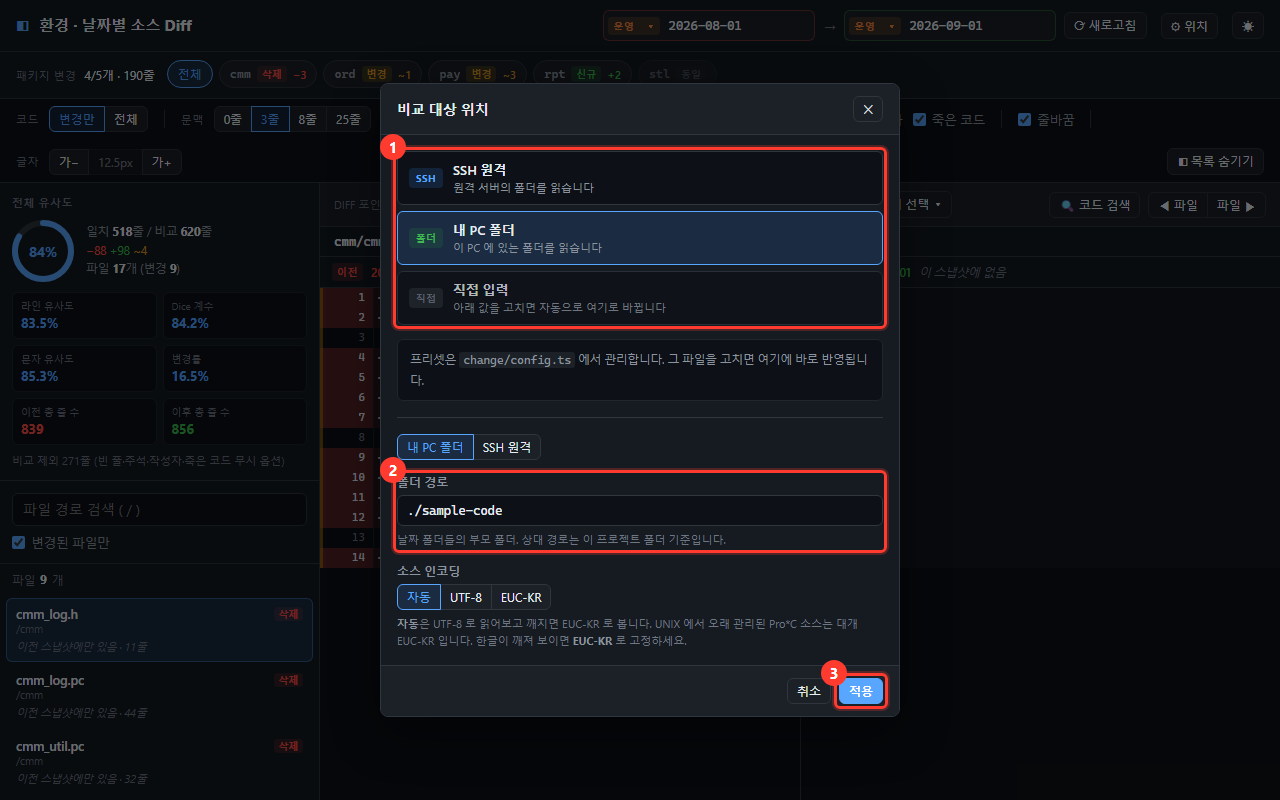
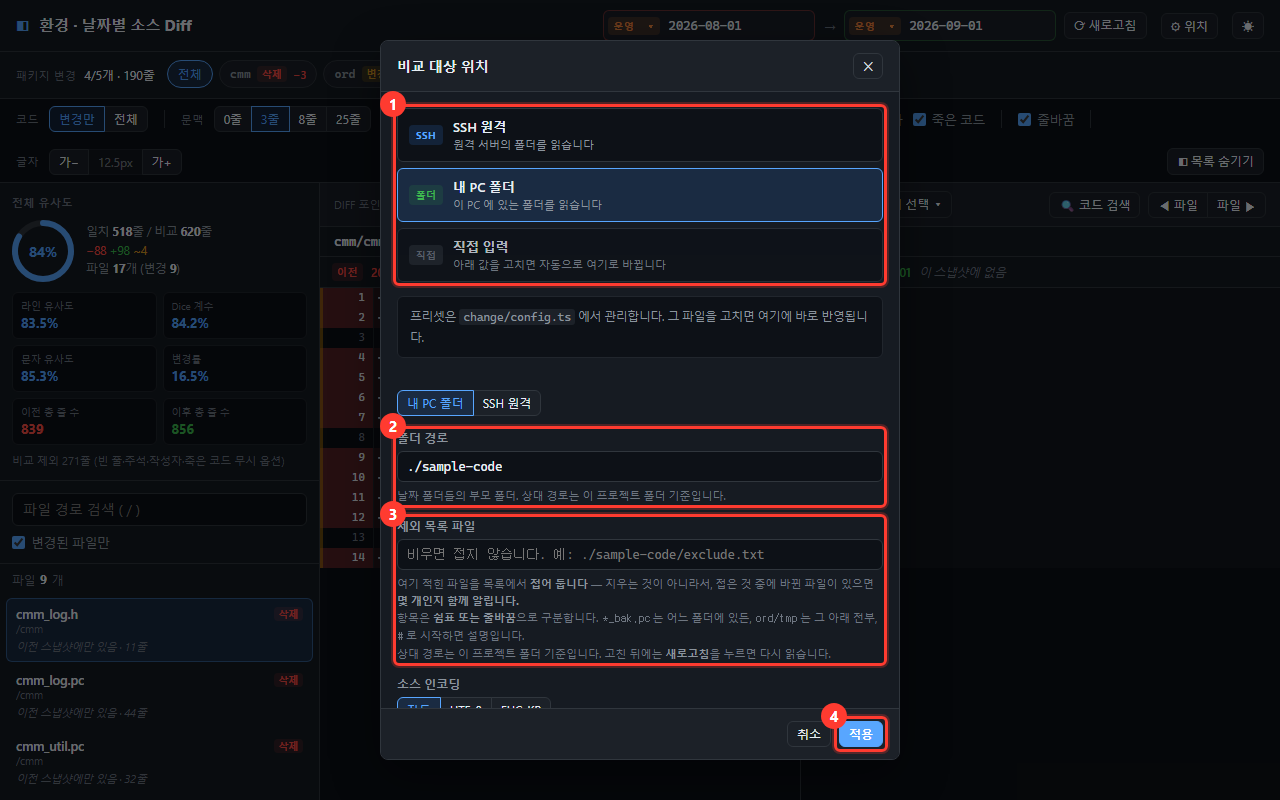
docs: 제외 목록을 문서에 반영하고 그림에 한 장을 더한다
설명서에 "4-1. 늘 안 봐도 되는 파일 접어 두기" 를 넣고, 접기가 지우기가 아니라는
것과 `· 변경 N` 을 보면 한 번은 열어 보라는 것을 그림과 함께 적었다.

"파일이 목록에 안 보입니다" 항목을 표로 갈랐다. `대상 밖` 과 `제외` 는 원인도
고칠 곳도 다른데 그동안 한 문장이었다. 규칙을 적었는데 안 먹을 때와 규칙 파일을
못 읽었을 때도 따로 적었다.

API 문서에 `excludeFile` 파라미터와 `exclude` 응답 블록, 규칙 표기법을 넣었다.
`skipped` 와 `exclude` 가 어떻게 다른지, `excludeFile` 이 왜 캐시 키에 안 들어가는지도
함께 적어 둔다.

캡처에 `07-exclude` 장면을 더했다. 접힌 파일은 경로순으로 목록 아래쪽에 있어
그냥 찍으면 화면 밖이라, 펼친 뒤 그 항목을 화면 가운데로 옮겨 찍는다. 프리셋을
고른 상태로 두면 저장값이 아니라 프리셋의 현재 값이 쓰이므로, 규칙 파일을 넣는
장면에서는 프리셋을 풀어 둔다.

설정 창에 칸이 하나 늘어 그림 6장도 다시 뽑았다.

Changed region(s): [[0.2812, 0.0312, 0.7188, 0.9688]]

diff --git a/scripts/shot.html b/scripts/shot.html
@@ -45,10 +45,15 @@
       const params = new URLSearchParams(location.search)
       const scene = params.get('scene') ?? 'overview'
 
-      const seed = (env = { left: 'prod', right: 'prod' }) => {
+      const seed = (env = { left: 'prod', right: 'prod' }, excludeFile = '') => {
+        // 프리셋을 고른 상태로 두면 **저장값이 아니라 프리셋의 현재 값**이 쓰인다
+        // (features/settings/sourceSettings.ts). 제외 목록을 넣을 때는 풀어 둬야 먹는다.
         localStorage.setItem(
           'cd-source',
-          JSON.stringify({ presetId: 'local', source: { mode: 'local', root: './sample-code', encoding: 'auto' } })
+          JSON.stringify({
+            presetId: excludeFile ? null : 'local',
+            source: { mode: 'local', root: './sample-code', encoding: 'auto', excludeFile },
+          })
         )
         localStorage.setItem('cd-env', JSON.stringify(env))
         localStorage.setItem('cd-theme', 'dark')
@@ -122,7 +127,8 @@
           await sleep(400)
           mark(doc, '.settings .preset-list', 1, 4)
           mark(doc, '.settings-body .field', 2, 4)
-          mark(doc, byText(doc, '.settings button', '적용'), 3, 5)
+          mark(doc, byText(doc, '.settings-body .field', '제외 목록 파일'), 3, 4)
+          mark(doc, byText(doc, '.settings button', '적용'), 4, 5)
         },
 
         /* 3. 좌우 환경·날짜 고르기 */
@@ -150,6 +156,18 @@
           mark(doc, '.filelist .file-item', 3, 4)
         },
 
+        /* 7. 제외 목록으로 접어 둔 파일 — 펼친 상태로 찍는다 */
+        async exclude(doc) {
+          const toggle = await until(() => doc.querySelector('.excl-toggle'))
+          toggle?.click()
+          const folded = await until(() => doc.querySelector('.file-item.excluded'))
+          // 접힌 파일은 경로순으로 목록 아래쪽에 있어 그냥 찍으면 화면 밖이다
+          folded?.scrollIntoView({ block: 'center' })
+          await sleep(400)
+          mark(doc, '.excl-toggle', 1, 5)
+          mark(doc, folded, 2, 4)
+        },
+
         /* 6. 코드 비교 화면 */
         async diff(doc) {
           mark(doc, '.optionbar', 1, 3)
@@ -162,7 +180,12 @@
         crossenv: { left: 'prod', right: 'test' },
       }
 
-      seed(ENV[scene])
+      /** 제외 기능은 규칙 파일을 가리켜야 보인다 — 저장소에 함께 든 견본을 쓴다 */
+      const EXCLUDE = {
+        exclude: './sample-code/exclude.txt',
+      }
+
+      seed(ENV[scene], EXCLUDE[scene] ?? '')
 
       const frame = document.getElementById('app')
       frame.src = '/'

diff --git a/docs/API.md b/docs/API.md
@@ -21,12 +21,20 @@
 | `port` | Number | N | 비우거나 숫자가 아니면 ssh 기본값(22) |
 | `identityFile` | String | N | 개인키 경로. 비우면 ssh 기본 키 |
 | `encoding` | String | N | `auto`(기본) · `utf-8` · `euc-kr`. 모르는 값은 `auto` 로 본다 |
+| `excludeFile` | String | N | 목록에서 접어 둘 파일들이 적힌 텍스트 파일 경로. 비우면 접지 않는다 |
 
 **자격증명 파라미터는 없다.** SSH 인증은 이 API 가 아니라 **ssh 가 알아서 한다** —
 개인키 · ssh-agent · `~/.ssh/config`. 비밀번호는 받지도, 보관하지도 않는다.
 
 `encoding` 은 로컬·SSH 모두에 적용된다. `auto` 는 UTF-8 로 읽어보고 유효하지 않으면 EUC-KR 로 본다
 (올바른 UTF-8 파일은 항상 UTF-8 로 읽히므로 멀쩡한 파일이 망가지지 않는다).
+
+`excludeFile` 은 **비교 대상과 같은 자리**에서 읽는다 (local 이면 이 PC, ssh 면 원격 서버).
+`root` 와 무관하게 푼다 — local 의 상대 경로는 프로젝트 폴더 기준, ssh 는 원격 경로 그대로다
+(`~/release/exclude.txt` 처럼 홈 기준도 된다). `rightRoot` 로 좌우 위치가 갈려도 **규칙은 하나**다.
+
+이 파라미터는 **2번 비교 API 에서만** 뜻이 있다 (1·3번은 받아도 무시한다).
+읽어 들인 규칙은 캐시되며 `?refresh=1`(1번 API) 로 다시 읽는다.
 
 ```
 GET /api/v1/snapshots
@@ -216,7 +224,8 @@ GET /api/v1/comparisons?mode=local&root=.%2Fsample-code%2Fprod
       "stats": { "aLines": 43, "bLines": 63, "same": 41, "modified": 2, "added": 20, "removed": 0, "changedLines": 22, "lineSimilarity": 0.6507, "diceSimilarity": 0.7735, "charSimilarity": 0.7423, "changeRatio": 0.3492, "comparedA": 43, "comparedB": 63, "ignored": 0, "charsA": 874, "charsB": 1430, "commonChars": 1710 }
     }
   ],
-  "skipped": 0
+  "skipped": 0,
+  "exclude": { "file": "", "rules": 0, "files": 0, "changed": 0, "error": null }
 }
 ```
 
@@ -230,9 +239,39 @@ GET /api/v1/comparisons?mode=local&root=.%2Fsample-code%2Fprod
 | `files[].status` | String | `added` 이후에만 있음 / `removed` 이전에만 있음 / `modified` 양쪽에 있고 다름 / `same` 양쪽이 같음 |
 | `files[].leftSize` `rightSize` | Number \| null | 그쪽에 파일이 없으면 `null` |
 | `files[].stats` | Object | **항상 채워진다.** 한쪽에만 있는 파일은 빈 파일과 비교한 값 (신규는 전 줄 `added`, 삭제는 전 줄 `removed`) |
-| `skipped` | Number | 확장자 미대상·용량 초과로 목록에서 빠진 파일 수 (좌우 합계) |
+| `files[].excluded` | Boolean | 제외 목록에 걸려 **접어 둔** 파일. 목록에서 빠지지 않는다 |
+| `files[].excludedBy` | String \| null | 걸린 규칙의 원문. `excluded=false` 면 `null` |
+| `skipped` | Number | 확장자 미대상·용량 초과로 **아예 읽지 않은** 파일 수 (좌우 합계) |
+| `exclude.file` | String | 요청의 `excludeFile` 값. 빈 문자열이면 이 기능을 쓰지 않은 것 |
+| `exclude.rules` | Number | 규칙 파일에서 읽어 들인 규칙 수 |
+| `exclude.files` | Number | 접어 둔 파일 수 (= `files[].excluded` 가 참인 것) |
+| `exclude.changed` | Number | 그중 `status !== 'same'` 인 수. **0 이 아니면 화면이 눈에 띄게 알린다** |
+| `exclude.error` | String \| null | 규칙 파일을 읽지 못한 이유. 이때도 비교 자체는 정상 응답이다 |
 
 `packages` 는 이름 오름차순, `files` 는 경로 오름차순.
+
+**`skipped` 와 `exclude` 는 다르다.** `skipped` 는 확장자·용량 기준으로 **아예 읽지 않은** 파일이라
+결과에 흔적이 없다. `exclude` 는 **읽고 비교까지 마친 뒤 접어 둔** 파일이라 `files` 에 그대로 있고,
+통계도 채워져 있다 — 화면이 펼치면 변경 내용까지 그대로 보인다. 그래서 접기는 읽는 양을 줄이지 않는다.
+
+`packages` 는 **접어 둔 파일을 뺀** 값이다. 화면에 보이는 목록과 합계가 어긋나지 않게 하기 위함이며,
+한 패키지의 파일이 모두 접히면 그 패키지는 `packages` 에서 사라진다.
+
+#### 규칙 파일 형식
+
+항목을 **쉼표 또는 줄바꿈**으로 구분한다 (`change/config.ts` 의 `SCAN.excludeSeparators` 로 바꿀 수 있다).
+`#` 로 시작하는 항목은 설명이다. 정규식은 지원하지 않는다.
+
+| 적는 법 | 뜻 | 예 |
+| ------ | -- | -- |
+| 이름만 | 어느 폴더에 있든 | `*_bak.pc` → `ord/a_bak.pc` |
+| 폴더 이름 | 그 아래 전부 | `rpt` → `rpt/rpt_daily.pc` |
+| 슬래시 포함 | 루트부터 맞춤 | `ord/tmp` → `ord/tmp/x.pc` (단 `pay/ord/tmp/x.pc` 는 아님) |
+| `*` | 한 폴더 안 | `ord/*.pc` (`ord/sub/a.pc` 는 아님) |
+| `**` | 폴더를 넘어 | `ord/**/*.pc` |
+| `?` | 한 글자 | `ord_?.pc` |
+
+대소문자는 가리지 않는다 (같은 규칙이 윈도우와 UNIX 에서 다르게 먹지 않도록).
 
 `left` 와 `right` 가 같아도 오류가 아니다. 모든 파일이 `same` 으로 온다.
 `left` 가 `right` 보다 최신이어도 오류가 아니며, 신규/삭제가 뒤바뀐 결과가 온다.
@@ -324,8 +363,13 @@ SSH 는 `execFile` 로 인자 배열을 넘겨 **로컬 셸 보간이 없다.** 
 | ---- | -- | ---------- |
 | 스냅샷 파일 목록 | 위치 + 스냅샷 id | `GET /snapshots?refresh=1` |
 | 좌우 비교 결과 | 위치 + `left` + `right` + 무시 옵션 6비트 | 위와 같음 |
+| 제외 규칙 | 위치 + `excludeFile` | 위와 같음 |
 
 "위치" 키에는 `encoding` 도 들어간다 — 인코딩이 다르면 같은 파일도 다른 내용으로 읽힌다.
+
+**`excludeFile` 은 "위치" 키에 들어가지 않는다.** 목록도 비교 결과도 제외와 무관하게 만들고
+접기는 그 위에 얹기 때문이다 — 규칙을 고쳐도 폴더를 다시 훑지 않고, 다음 요청에 바로 반영된다
+(규칙 **파일의 내용**은 위 표대로 캐시되므로 파일을 고친 뒤에는 새로고침이 필요하다).
 
 "위치" 키에는 개인키 **경로**만 들어간다 (키 내용·비밀번호는 애초에 다루지 않는다).
 

diff --git a/docs/사용설명서.md b/docs/사용설명서.md
@@ -52,7 +52,7 @@ D:\release\              ← 이 경로를 알려줍니다
 
 #### 화면에서 바꾸기 — 가장 빠른 길
 
-> 오른쪽 위 **⚙ 위치** 클릭 ➡ ① 목록에서 **내 PC 폴더** 클릭 ➡ ② **폴더 경로** 확인 ➡ ③ **적용** 클릭
+> 오른쪽 위 **⚙ 위치** 클릭 ➡ ① 목록에서 **내 PC 폴더** 클릭 ➡ ② **폴더 경로** 확인 ➡ ④ **적용** 클릭
 
 ![위치 설정 창](images/02-settings.png)
 
@@ -60,7 +60,8 @@ D:\release\              ← 이 경로를 알려줍니다
 | -- | ---- | ------- |
 | ① | 프리셋 목록 | 미리 적어 둔 위치 중 하나를 고릅니다 |
 | ② | 폴더 경로 | 날짜 폴더들의 **부모** 폴더입니다. 여기를 고치면 ①이 자동으로 `직접 입력` 으로 바뀝니다 |
-| ③ | 적용 | 누르면 바로 그 위치를 읽습니다. **다시 시작하지 않아도 됩니다** |
+| ③ | 제외 목록 파일 | 늘 안 봐도 되는 파일을 적어 둔 파일의 경로입니다. **비워 두면 아무것도 접지 않습니다** ([4-1](#4-1-늘-안-봐도-되는-파일-접어-두기)) |
+| ④ | 적용 | 누르면 바로 그 위치를 읽습니다. **다시 시작하지 않아도 됩니다** |
 
 고른 값은 이 브라우저에 저장돼 다음에 열 때도 그대로입니다.
 
@@ -422,6 +423,47 @@ cmm/
 바뀌지 않은 파일까지 보려면 **변경된 파일만** 체크를 끕니다.
 파일이 많으면 위 검색창에 파일명 일부를 입력해 좁힙니다.
 
+### 4-1. 늘 안 봐도 되는 파일 접어 두기
+
+자동으로 만들어지는 파일이나 남의 코드처럼 **매번 봐도 소용없는 파일**이 목록 앞을 채우면
+정작 볼 파일이 뒤로 밀립니다. 그런 파일을 텍스트 파일에 적어 두면 목록에서 접힙니다.
+
+> ① 메모장으로 `exclude.txt` 를 만들어 파일 이름 적기 ➡ ② **⚙ 위치** 의 **제외 목록 파일** 에 그 경로 넣기 ➡ ③ **적용**
+
+```
+# 왜 뺐는지 이렇게 적어 둘 수 있습니다
+*_common.h, *_bak.pc
+rpt
+```
+
+| 이렇게 적으면 | 이런 파일이 접힙니다 |
+| ------------ | ------------------ |
+| `ord_create.pc` | 이름이 같은 파일 — **어느 폴더에 있든** |
+| `*_bak.pc` | `_bak.pc` 로 끝나는 파일 전부 |
+| `rpt` | `rpt` 폴더 **아래 전부** |
+| `ord/tmp` | `ord` 밑의 `tmp` 폴더만 (다른 자리의 `tmp` 는 그대로) |
+
+- 항목은 **쉼표**나 **줄바꿈**으로 구분합니다. 섞어 써도 됩니다.
+- `#` 로 시작하는 줄은 설명이라 규칙이 되지 않습니다.
+- 대소문자는 가리지 않습니다.
+- 파일 내용을 고친 뒤에는 화면 오른쪽 위 **⟳ 새로고침** 을 누르면 다시 읽습니다.
+
+#### 지우는 것이 아니라 접는 것입니다
+
+![접어 둔 파일](images/07-exclude.png)
+
+| | 자리 | 하는 일 |
+| -- | ---- | ------- |
+| ① | `제외 4 · 변경 1` | 몇 개를 접었는지, **그중 몇 개가 실제로 바뀌었는지**. 누르면 펼쳐집니다 |
+| ② | 접힌 파일 | 흐리게 남아 있고, 아래에 **어느 규칙에 걸렸는지** 적혀 있습니다 |
+
+**`· 변경 N` 이 노란색으로 뜨면 한 번은 열어 보세요.** 접어 둔 자리에 진짜 변경이
+들어왔다는 뜻입니다. 이것 때문에 제외한 파일을 목록에서 아예 지우지 않습니다 —
+운영과 테스트가 얼마나 벌어졌는지 보려고 여는 화면에서 "안 보이는 파일" 은 사고가 됩니다.
+
+> 접은 파일도 **비교는 그대로 합니다.** 그래서 읽는 양이 줄지는 않습니다.
+> 아예 읽지 않게 하려면 `change/config.ts` 의 `SCAN` 에서 대상 확장자를 좁히세요.
+
 ---
 
 ## 5. 코드 비교 보기
@@ -634,8 +676,14 @@ Oracle 패키지(.pks/.pkb)의 `$IF FALSE $THEN` … `$END` 도 같은 규칙으
 
 ### 파일이 목록에 안 보입니다
 
-비교 대상 확장자가 아닐 수 있습니다. 목록 위 `· 제외 N` 이 그 개수입니다.
-`change/config.ts` 의 `SCAN` 에 확장자를 추가하세요.
+목록 위 표시를 먼저 보세요. 둘은 원인이 다릅니다.
+
+| 표시 | 뜻 | 고칠 곳 |
+| ---- | -- | ------ |
+| `· 대상 밖 N` | 확장자가 대상이 아니거나 파일이 너무 큼 | `change/config.ts` 의 `SCAN` |
+| `· 제외 N` | 제외 목록에 걸려 **접힌 것** — 누르면 펼쳐집니다 | 제외 목록 파일 ([4-1](#4-1-늘-안-봐도-되는-파일-접어-두기)) |
+
+확장자를 늘리려면 `change/config.ts` 의 `SCAN` 에 추가하세요.
 
 ```ts
 export const SCAN: ScanConfig = {
@@ -645,6 +693,22 @@ export const SCAN: ScanConfig = {
 ```
 
 > `SCAN` 은 **개발 서버를 다시 시작해야** 반영됩니다 (`Ctrl+C` → `npm run dev`).
+
+### `⚠ 제외 목록 오류` 가 뜹니다
+
+적어 둔 제외 목록 파일을 읽지 못했습니다. 그 표시에 **마우스를 올리면** 이유가 나옵니다.
+비교 자체는 정상이고, 다만 **아무것도 접히지 않은 상태**입니다.
+
+- 경로를 잘못 적었을 때가 대부분입니다 — **⚙ 위치** 의 `제외 목록 파일` 을 확인하세요
+- 내 PC 폴더라면 상대 경로는 **이 프로젝트 폴더 기준**입니다
+- 제외 기능을 안 쓸 거라면 그 칸을 **비우면** 표시도 사라집니다
+
+### 제외 목록에 적었는데 그대로 보입니다
+
+- 파일을 고친 뒤 **⟳ 새로고침** 을 눌렀는지 확인하세요 (규칙은 한 번 읽어 두고 씁니다)
+- `ord/tmp` 처럼 슬래시가 들어간 규칙은 **맨 위 폴더부터** 맞습니다.
+  어디에 있든 걸리게 하려면 슬래시 없이 이름만 적으세요
+- 구분자를 바꿔 두지 않았는지 보세요 (`change/config.ts` 의 `SCAN.excludeSeparators`)
 
 ### 폴더에 새 날짜를 넣었는데 목록에 없습니다
 

diff --git a/docs/한일/2026-09-01.md b/docs/한일/2026-09-01.md
@@ -158,3 +158,59 @@ PL/SQL)에서 `#` 은 전처리기 지시자이지 주석이 아니다. `;` 도 
 **있다.** 비교 API 에 무시 옵션 두 개가 늘었다 — `ignoreAuthor`, `ignoreDeadCode` (둘 다 flag).
 `GET /api/v1/comparisons?...&ignoreAuthor=1&ignoreDeadCode=1`. 안 보내면 꺼진 것으로
 보므로 기존 호출은 그대로 동작한다. 서버 캐시 키의 옵션 비트는 4→6비트가 됐다.
+
+---
+
+# 파일 비교 제외 — 늘 안 봐도 되는 파일을 목록에서 접는다
+
+## 왜
+
+자동생성물·공통 헤더처럼 매번 봐도 소용없는 파일이 목록 앞을 채워, 정작 볼 파일이 뒤로 밀렸다.
+
+## 어디에 두었나
+
+목록은 **텍스트 파일**에 둔다 (localStorage 가 아니라). 대상이 자동생성물·벤더 코드라
+사람마다 다른 값이 아니고, 소스 옆에 두면 팀이 함께 고칠 수 있으며 도구를 다시 배포하지
+않아도 규칙이 바뀐다. 파일 경로는 위치 설정(`SourceConfig.excludeFile`)에 두어 로컬과 SSH 가
+각자 자기 경로를 갖는다 — 로컬은 프로젝트 폴더 기준, SSH 는 원격 경로 그대로다.
+
+## 거르지 않고 접는다
+
+걸린 파일도 **비교는 그대로 하고** 목록에서만 접는다. 훑기에서 걸러 내면 접어 둔 자리에
+변경이 들어와도 알 길이 없는데, 운영↔테스트 차이를 보려고 여는 도구에서 그건 사고가 된다.
+그래서 화면은 늘 `제외 4 · 변경 1` 을 남기고, 뒤 숫자가 0 이 아니면 노란색으로 띄운다.
+펼치면 접힌 파일이 흐리게 제자리에 나오고 어느 규칙에 걸렸는지도 함께 보인다.
+
+대신 읽는 양은 줄지 않는다 — 그건 `SCAN` 의 몫이라 목록 위에 `대상 밖 N` 으로 따로 뜬다.
+
+## 캐시
+
+접기는 **비교가 끝난 결과 위에** 얹는다(`applyExclusions`). 그래서 규칙을 고쳐도 폴더를
+다시 훑지 않고, 사용자마다 캐시가 갈리지도 않는다. 규칙 **파일 내용**만 따로 캐시하고
+`?refresh=1` 에서 비운다. 규칙 파일을 못 읽어도 비교는 그대로 하고 오류만 응답에 싣는다.
+
+## 형식
+
+쉼표와 줄바꿈 둘 다 구분자로 받는다(`SCAN.excludeSeparators` 로 변경 가능). 판정은
+`.gitignore` 규칙을 따르고 정규식은 받지 않는다 — 사용자가 직접 고치는 값이라 잘못 적은
+한 줄이 목록을 비우거나 되돌아오지 않는 검색이 되는 길을 열 이유가 없다.
+
+## 함께 고친 것
+
+- `buildPackageChanges` 가 훑기 결과 대신 **비교된 파일만** 보게 바꿨다. 접은 파일을 뺀 뒤
+  같은 함수로 다시 만들 수 있어야, 요약 합계와 화면에 보이는 목록이 어긋나지 않는다.
+- `SnapshotSource` 에 `readTextFile` 을 넣었다 (스냅샷 밖의 파일 한 건). SSH 는 기존
+  `@@<길이>` 출력 형식을 그대로 재사용한다.
+- 기존 `· 제외 N`(확장자·용량) 표시를 `· 대상 밖 N` 으로 바꿨다 — 새 기능과 이름이 겹쳤다.
+- 설명서 그림에 `07-exclude.png` 를 더하고 6장을 다시 뽑았다 (설정 창에 칸이 하나 늘었다).
+
+## 외부 API 변경
+
+**있다.**
+
+- 요청: 소스 파라미터에 `excludeFile`(String, 선택) 추가. 안 보내면 아무것도 접지 않아
+  기존 호출은 그대로 동작한다. 서버 캐시 키에는 **들어가지 않는다**.
+- 응답: `ComparedFile` 에 `excluded`(Boolean) · `excludedBy`(String|null) 추가,
+  `ComparisonResponse` 에 `exclude { file, rules, files, changed, error }` 추가.
+- `packages` 는 이제 **접은 파일을 뺀** 값이다 (규칙이 없으면 예전과 동일).
+- `change/config.ts` 의 `SCAN` 에 `excludeSeparators`(선택) 추가. 없으면 쉼표·줄바꿈.
